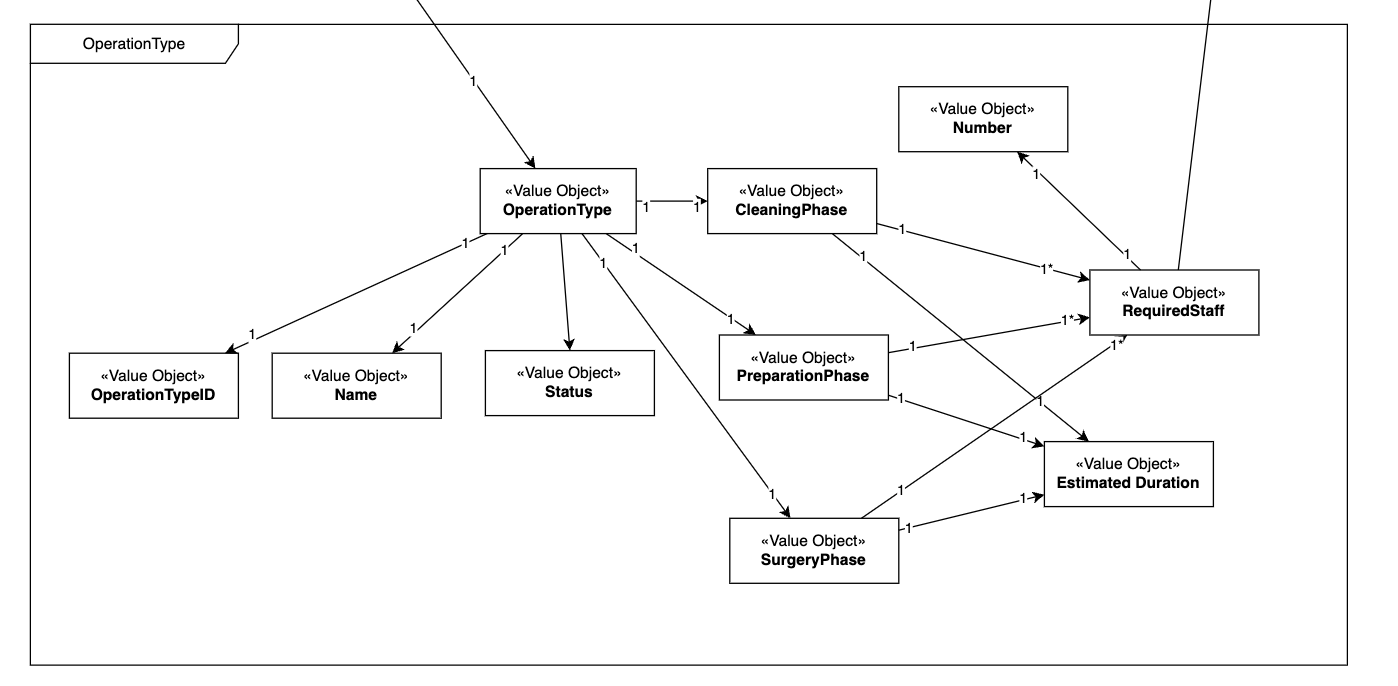
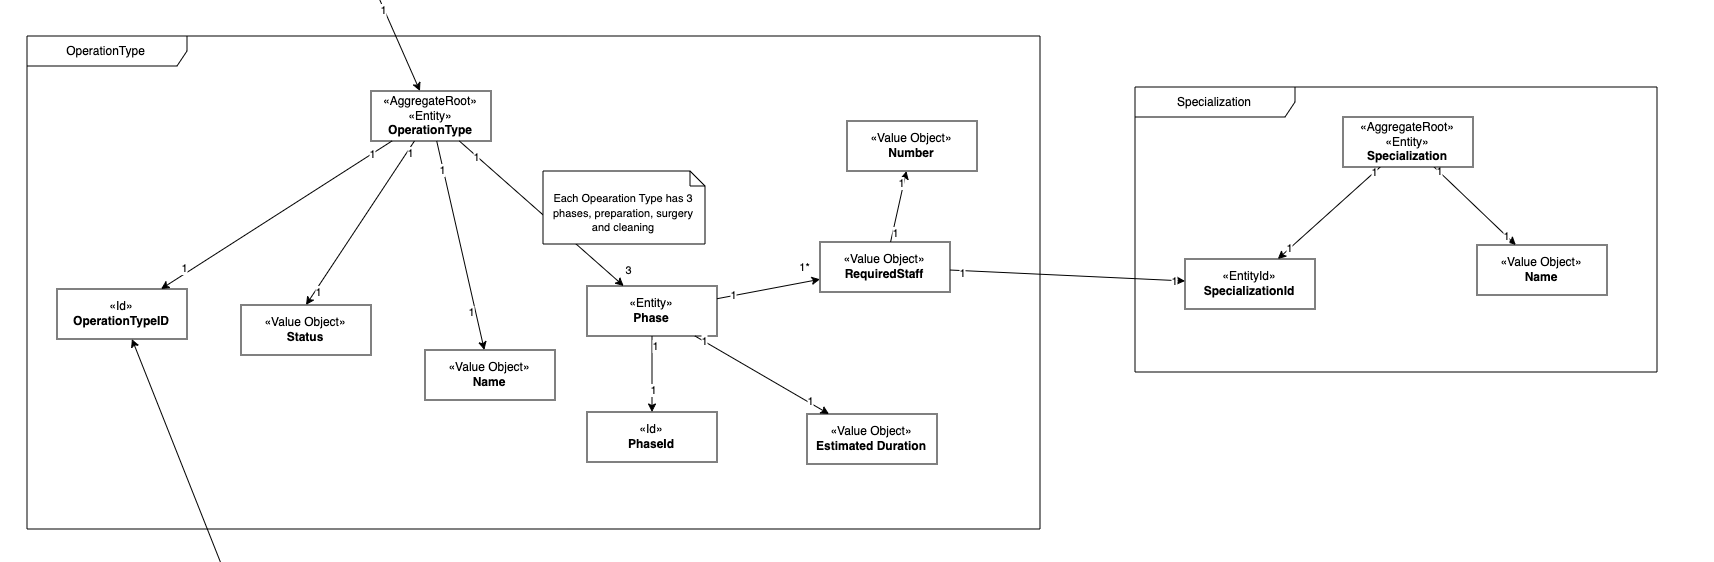
changes in DM and in implementation part for each US #21 #22 #23 #24

diff --git a/docs/Sprint_1/US_5.1.21/README.md b/docs/Sprint_1/US_5.1.21/README.md
@@ -48,6 +48,9 @@ The client has indicated that the system should allow modification of existing o
 
 ## 2. Design
 
+### Domain Model
+![Domain_Model](DM/DM.png) 
+
 ### High-Level Process View (L1)
 ![N1_VP_US21](L1/Process_View.svg)
 
@@ -67,6 +70,24 @@ The client has indicated that the system should allow modification of existing o
 <br>
 
 ## 3. Implementation
+
+
+### Implementation Steps
+
+1. **Database Schema Update:**
+  There is no need to change the `operation_types` table from the previous User Story. The existing structure already supports the required fields (`name`, `required_staff`, `estimated_duration`). Ensure historical data is preserved by creating a versioning mechanism or a history table.
+
+2. **Backend Development:**
+  - Enhance `OperationTypeService` to handle updates while preserving historical data.
+  - Extend `OperationTypeController` to include endpoints for updating operation types.
+
+3. **API Endpoints:**
+  - `PUT /operation-types/{id}`: Endpoint to update an existing operation type.
+  - `GET /operation-types/{id}`: Endpoint to retrieve details of a specific operation type.
+
+4. **Validation Logic:**
+  - Ensure the backend validates the uniqueness of the operation type name during updates.
+  - Validate that all required fields are provided and correctly formatted.
 
 
 ## 4. Testing

diff --git a/docs/Sprint_1/US_5.1.23/README.md b/docs/Sprint_1/US_5.1.23/README.md
@@ -65,7 +65,24 @@ The following attributes should be displayed and managed in the system for each 
 
 ## 3. Implementation
 
----
+### 1. Database Schema Update
+- No changes are required to the `operation_types` table. The existing structure supports the necessary fields (`ID`, `Name`, `Status`, `Specialization`). Ensure historical data is preserved by implementing a versioning mechanism or a history table.
+
+### 2. Backend Development
+- Update the `OperationType` model to include methods for filtering by name, specialization, and status.
+- Enhance `OperationTypeService` to handle filtering logic.
+- Extend `OperationTypeController` to include endpoints for retrieving filtered lists of operation types.
+
+### 3. API Endpoints
+- `GET /operation-types`: Endpoint to retrieve a list of all operation types with optional query parameters for filtering by name, specialization, and status.
+
+### 4. Validation Logic
+- Ensure the backend validates the filter parameters.
+- Validate that the filter values are correctly formatted and within the allowed values (e.g., valid specializations, status values).
+- Ensure that the filtering logic is efficient and returns accurate results.
+- Ensure that any empty filter is ignored when retrieving data.
+
+
 
 ## 4. Testing
 

diff --git a/docs/Sprint_1/US_5.1.22/README.md b/docs/Sprint_1/US_5.1.22/README.md
@@ -66,7 +66,26 @@ The administrator interacts with the following data regarding the operation type
 
 
 ## 3. Implementation
-<br><br><br><br><br><br><br>
+
+
+
+1. **Database Schema Update:**
+  - No changes are required to the `operation_types` table. The existing structure supports the necessary fields (`ID`, `status`). Ensure historical data is preserved by implementing a versioning mechanism or a history table.
+
+2. **Backend Development:**
+  - Update the `OperationType` model to include the method to change `status`.
+  - Enhance `OperationTypeService` to handle status updates while preserving historical data.
+  - Extend `OperationTypeController` to include endpoints for updating the status of operation types.
+
+3. **API Endpoints:**
+  - `PUT /operation-types/{id}/status`: Endpoint to update the status of an existing operation type.
+  - `GET /operation-types`: Endpoint to retrieve a list of all operation types with their statuses.
+
+4. **Validation Logic:**
+  - Ensure the backend validates the status change request.
+  - Validate that the operation type exists before attempting to update its status.
+  - Ensure that the status field is correctly formatted and within the allowed values (e.g., active, inactive).
+
 
 
 ## 4. Testing
